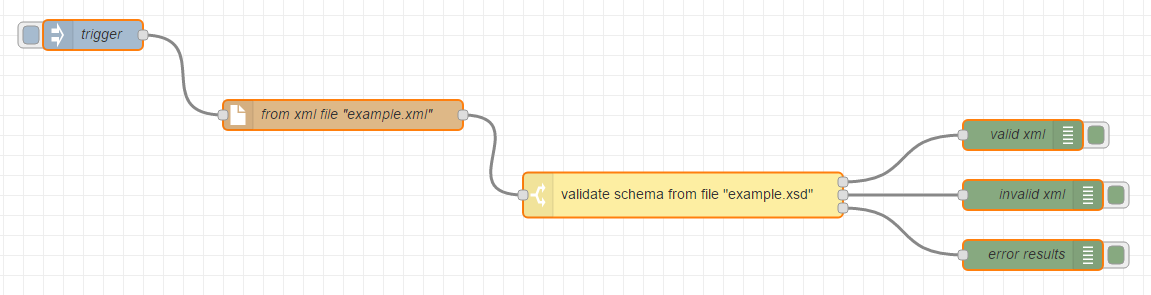
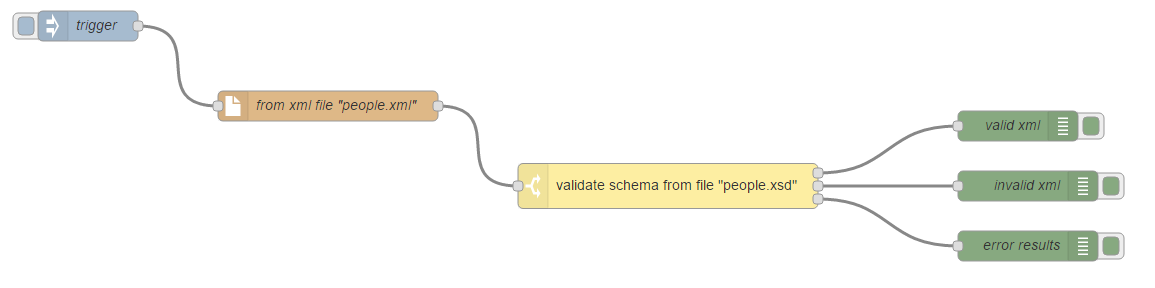
fix validation results and update images to 3 outputs

Changed region(s): [[0.152, 0.1562, 1.0, 0.8125], [0.7906, 0.7812, 1.0, 0.9375], [0.0, 0.0312, 0.152, 0.1875]]

diff --git a/xml-validate.js b/xml-validate.js
@@ -31,18 +31,18 @@ module.exports = function (RED) {
             validator.validateXML(msg.payload, node.filename, function(err, result) {
               var msgs = [];
 
-              if (err) {
+              if (err === null || err === undefined || Object.keys(err).length == 0) {
               
-                msgs.push(null);
                 msgs.push(msg);
-                msgs.push({ _msgid: msg._msgid, payload: result});
-              
+                msgs.push(null);
+                msgs.push(null);
+
               } else {
 
+                msgs.push(null);
                 msgs.push(msg);
-                msgs.push(null);
-                msgs.push(null);
-
+                msgs.push({ _msgid: msg._msgid, payload: { error: err, messages: result || [] }});
+              
               }
                 
               node.send(msgs);

diff --git a/xml-validate.html b/xml-validate.html
@@ -33,7 +33,7 @@
         color: '#fdeea2',
         defaults: {
             name: {value: ""},
-            filename: {value: "node_modules\\node-red-contrib-xml-validate\\example.xsd"}
+            filename: {value: "node_modules\\node-red-contrib-xml-validate\\people.xsd"}
         },
         inputs: 1,
         outputs: 3,
